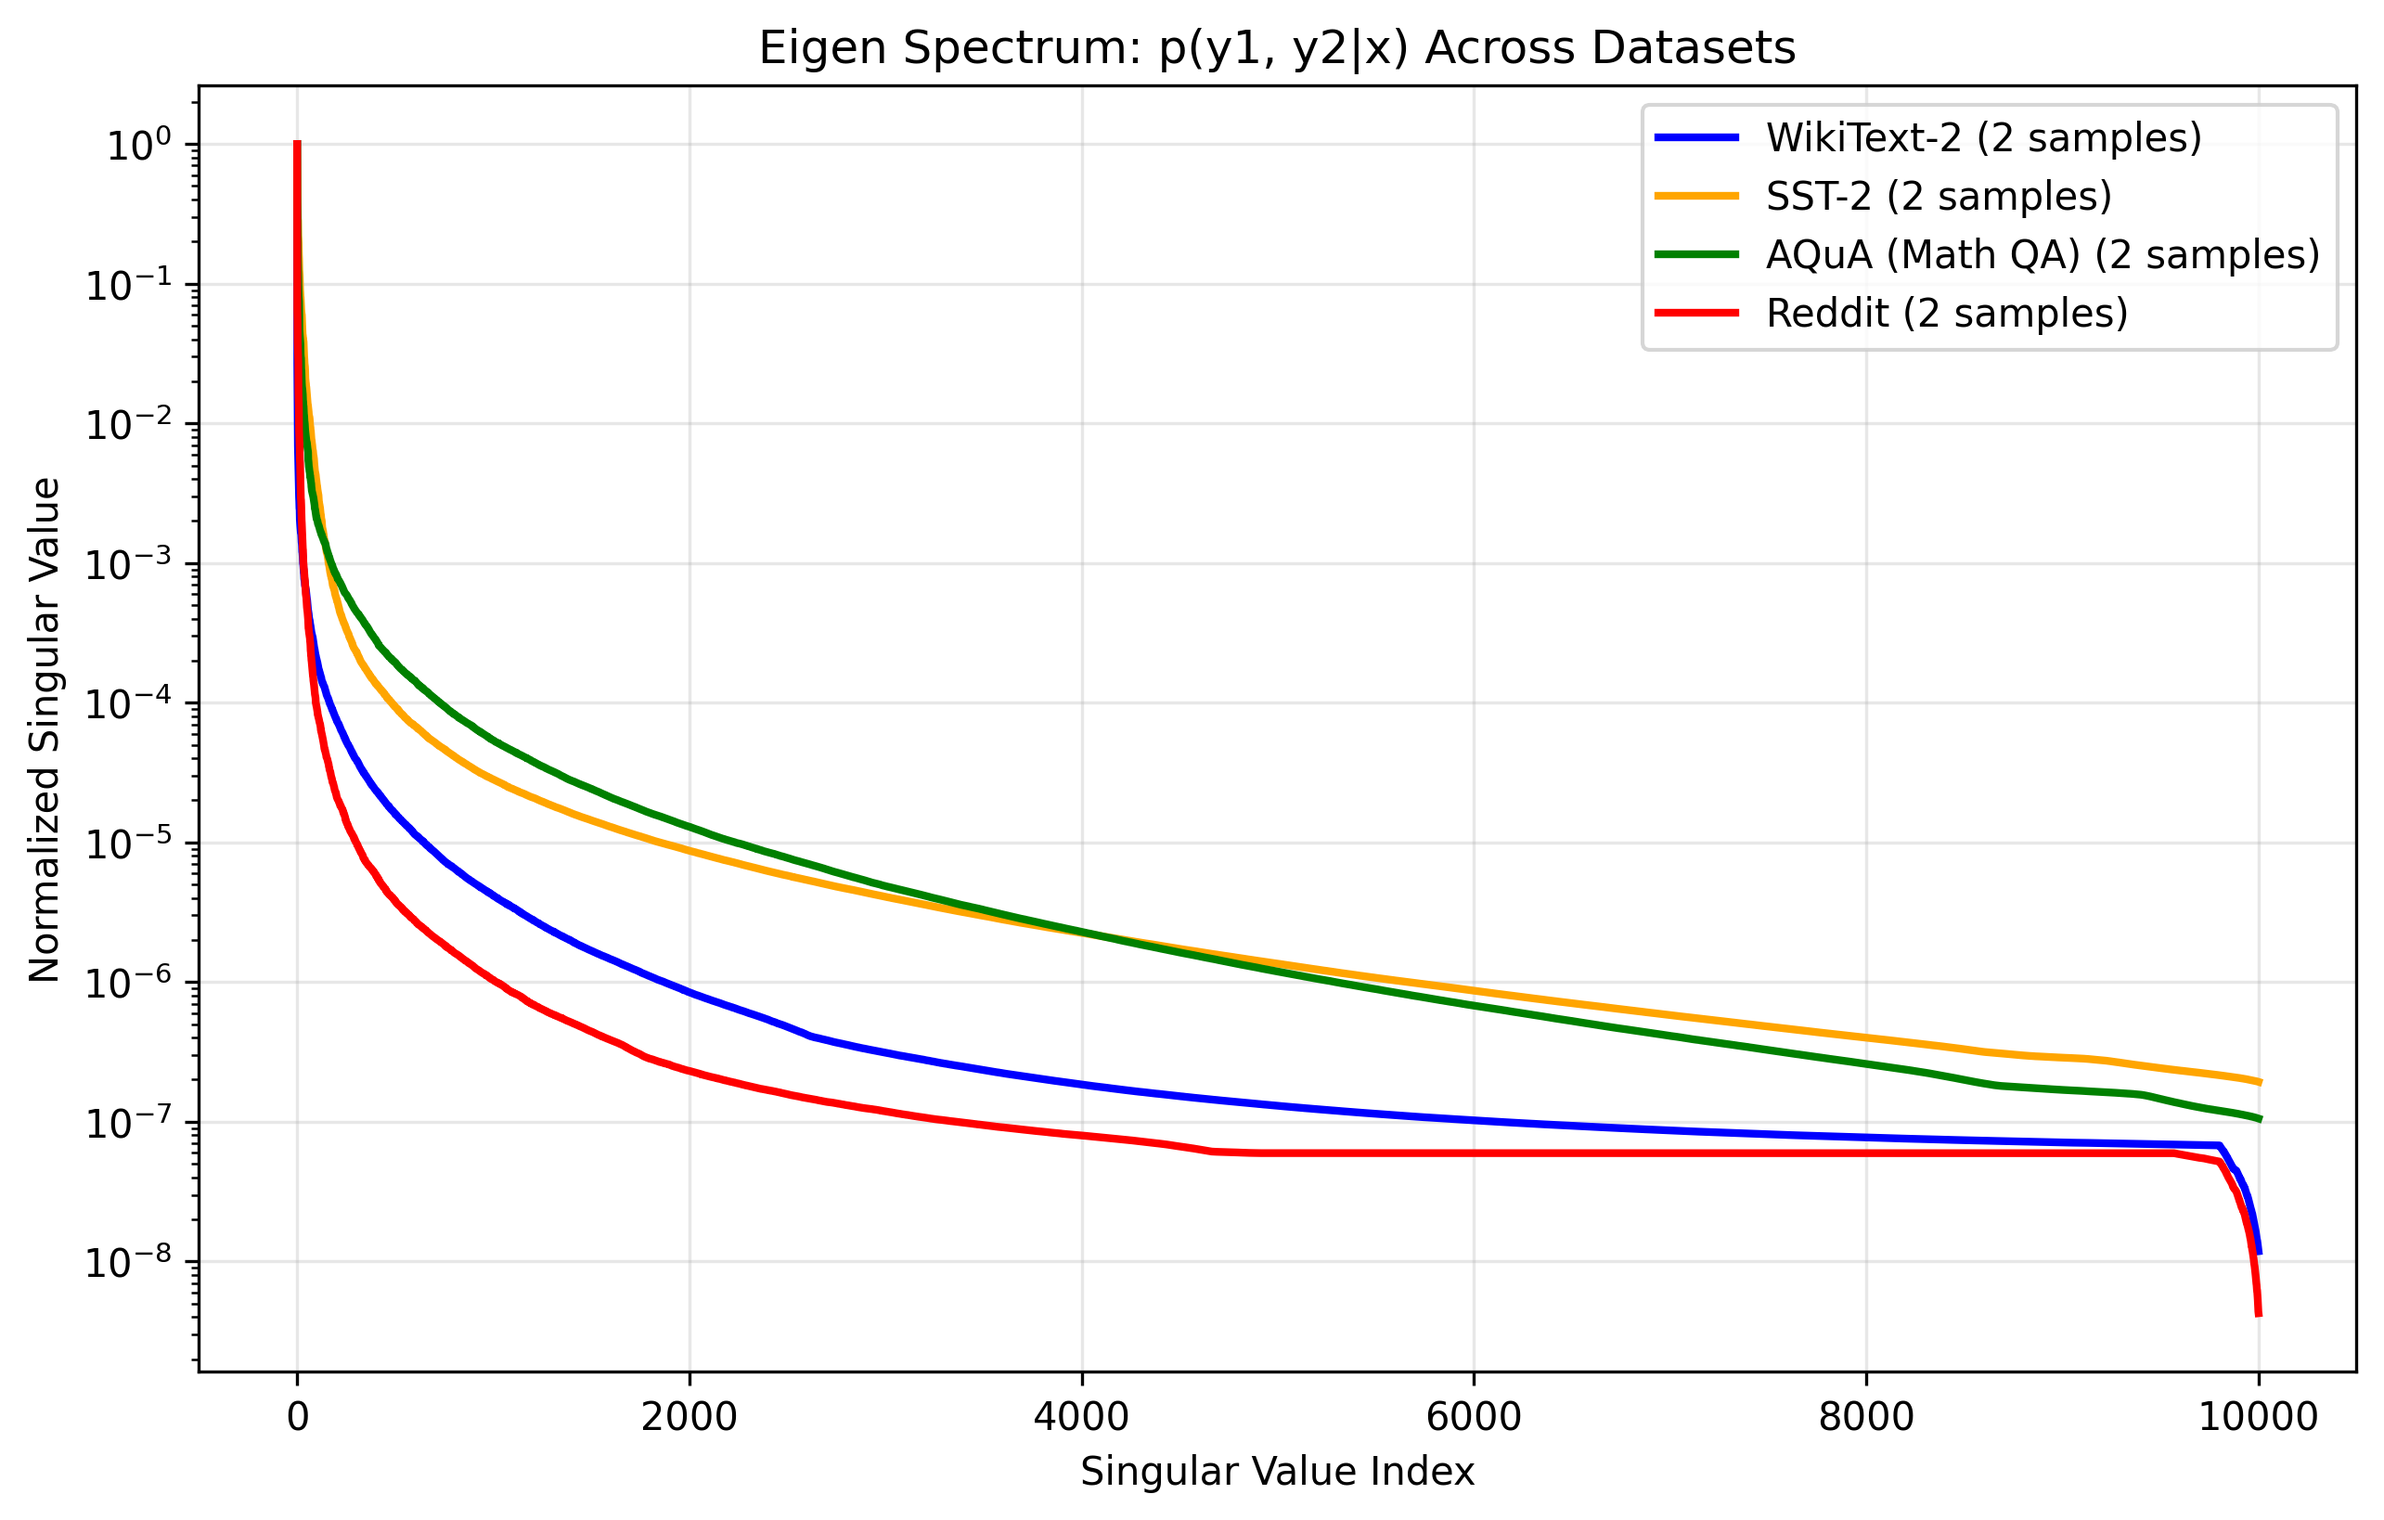
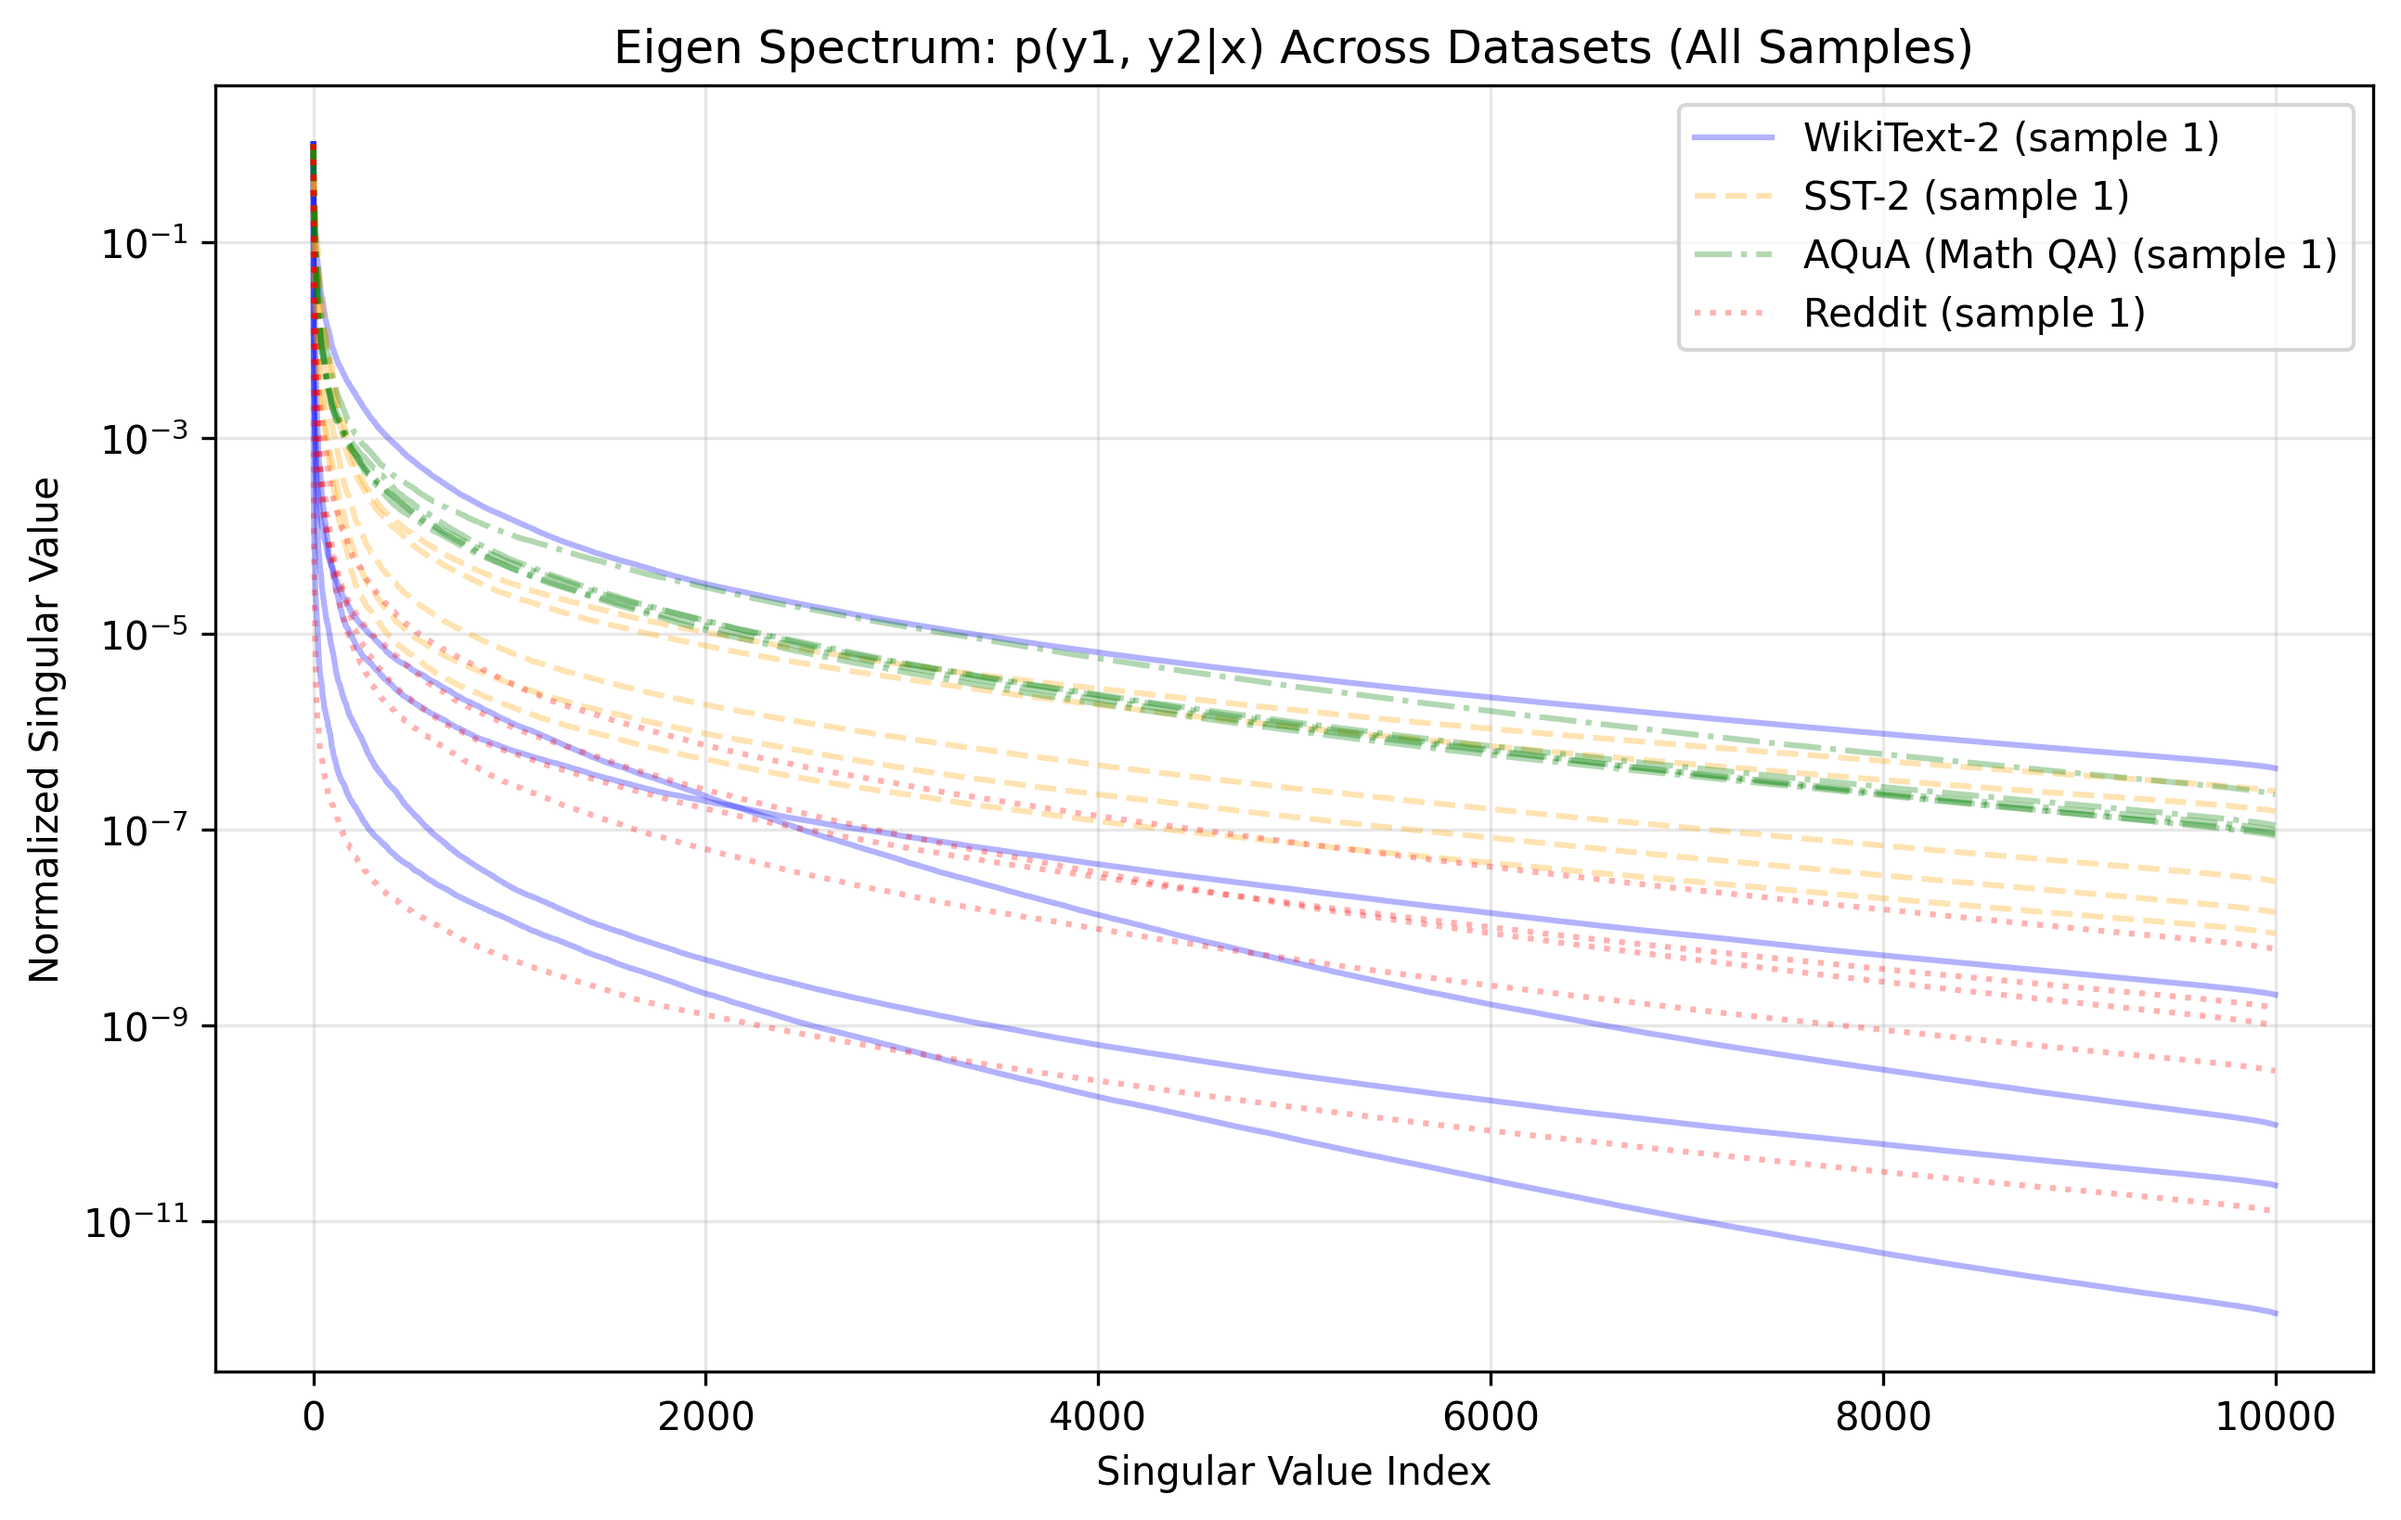
Update empirical rank plotting script

diff --git a/scripts/plots/plot_dataset_rank_simple.py b/scripts/plots/plot_dataset_rank_simple.py
@@ -102,7 +102,9 @@ def get_joint_prob(model, tokenizer, text, device, top_k=None):
             topk_y1 = torch.arange(p_y1.size(0), device=device)
         else:
             topk_p_y1, topk_y1 = torch.topk(p_y1, top_k)
-        joint = torch.zeros((len(topk_y1), len(topk_y1)), device=device)
+        joint = torch.zeros(
+            (len(topk_y1), len(topk_y1)), device=device, dtype=torch.float64
+        )
 
         for i, y1 in enumerate(
             tqdm(topk_y1, desc="Computing joint p(y1,y2|x)", leave=False)
@@ -137,21 +139,40 @@ def plot_spectra(spectra, save_path=None):
         "reddit": "Reddit",
     }
 
+    line_styles = {
+        "wikitext2": "-",
+        "sst2": "--",
+        "aqua_rat": "-.",
+        "reddit": ":",
+    }
+
     for category in spectra.keys():
         spectrum_list = spectra[category]
-        tensor_list = [torch.as_tensor(s) for s in spectrum_list]
-        avg_spectrum = torch.stack(tensor_list).mean(dim=0)
-        normalized = avg_spectrum / avg_spectrum[0]
-        plt.semilogy(
-            normalized,
-            color=colors.get(category, None),
-            linewidth=2,
-            label=f"{names.get(category, category)} ({len(spectrum_list)} samples)",
-        )
+        color = colors.get(category, None)
+        name = names.get(category, category)
+        style = line_styles.get(category, "-")
+
+        # Plot each individual spectrum
+        for i, spectrum in enumerate(spectrum_list):
+            tensor = torch.as_tensor(spectrum)
+            normalized = tensor / tensor[0]
+            alpha = (
+                0.3 if len(spectrum_list) > 1 else 1.0
+            )  # More transparent if multiple samples
+            plt.semilogy(
+                normalized,
+                color=color,
+                linestyle=style,
+                linewidth=1.5,
+                alpha=alpha,
+                label=(
+                    f"{name} (sample {i+1})" if i == 0 else None
+                ),  # Only label first line per category
+            )
 
     plt.xlabel("Singular Value Index")
     plt.ylabel("Normalized Singular Value")
-    plt.title("Eigen Spectrum: p(y1, y2|x) Across Datasets")
+    plt.title("Eigen Spectrum: p(y1, y2|x) Across Datasets (All Samples)")
     plt.legend()
     plt.grid(True, alpha=0.3)
 
@@ -230,17 +251,20 @@ def main():
     var_target = 0.99
     for category, spectrum_list in spectra.items():
         if spectrum_list:
-            avg_spectrum = torch.stack(spectrum_list).mean(dim=0)
-            rank_crit = (
-                torch.cumsum(avg_spectrum**2, 0) / (avg_spectrum**2).sum() < var_target
-            ).sum().item() + 1
-            summary_rows.append([category, rank_crit])
-
-    print("\nSUMMARY:")
+            ranks = []
+            for spectrum in spectrum_list:
+                spectrum = spectrum.cpu()
+                cumsum = torch.cumsum(spectrum**2, 0)
+                total = (spectrum**2).sum()
+                rank = (cumsum / total < var_target).sum().item() + 1
+                ranks.append(rank)
+            mean_rank = np.mean(ranks)
+            std_rank = np.std(ranks)
+            summary_rows.append([category, f"{mean_rank:.1f} ± {std_rank:.1f}"])
     print(
         tabulate(
             summary_rows,
-            headers=[f"Category", f"Rank for {var_target*100}% Variance"],
+            headers=[f"Category", f"Rank for {var_target*100}% Variance (mean ± std)"],
             tablefmt="github",
         )
     )
